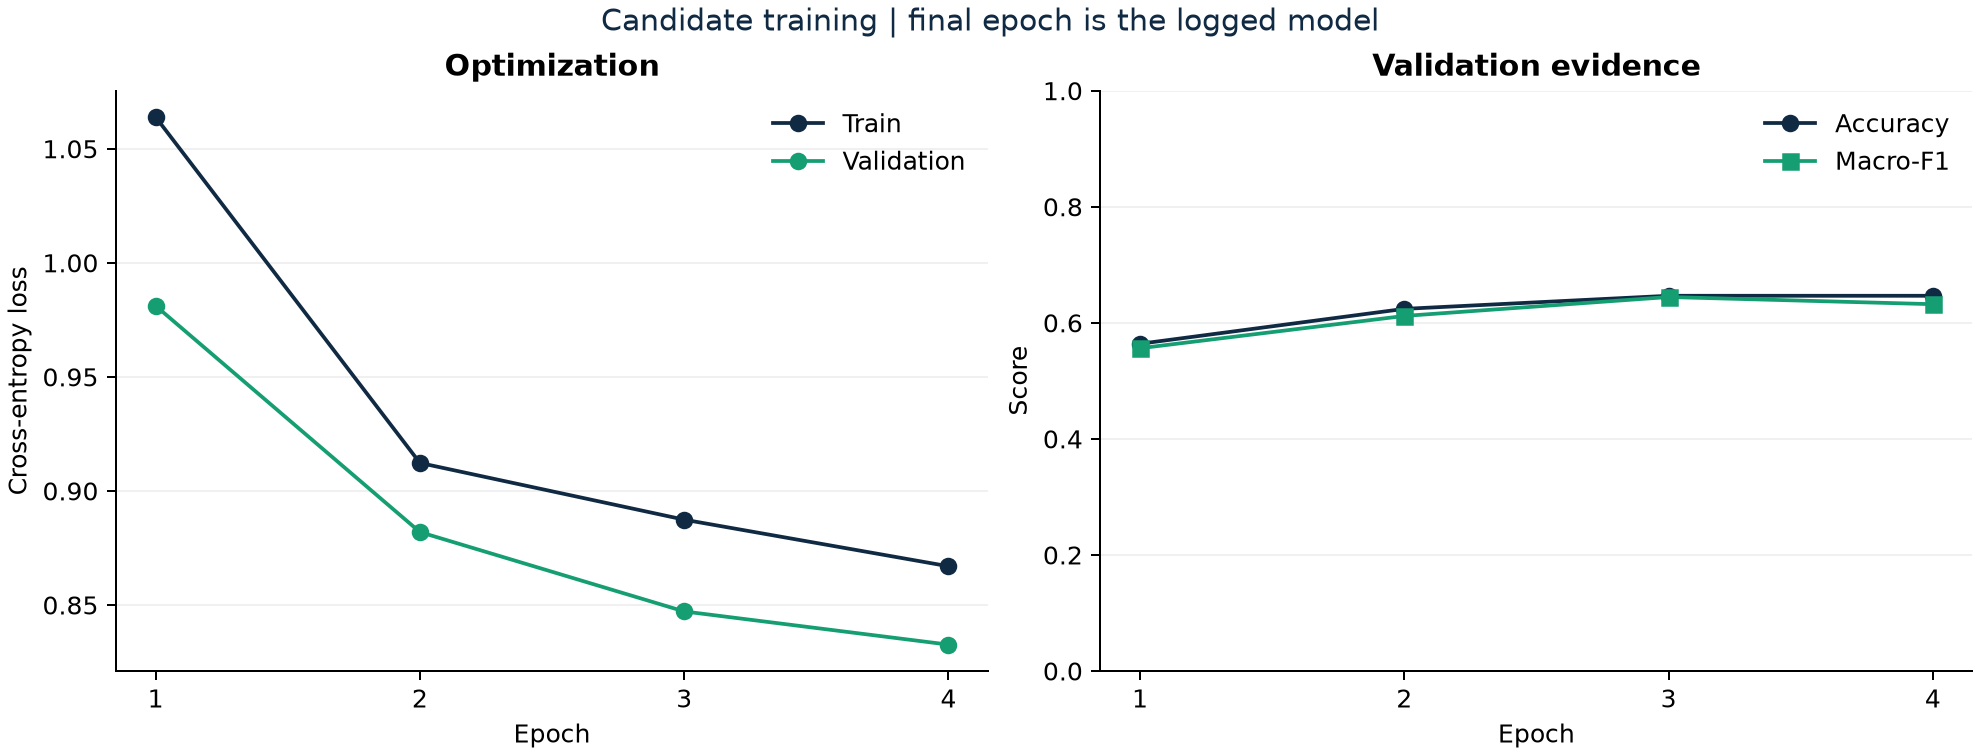
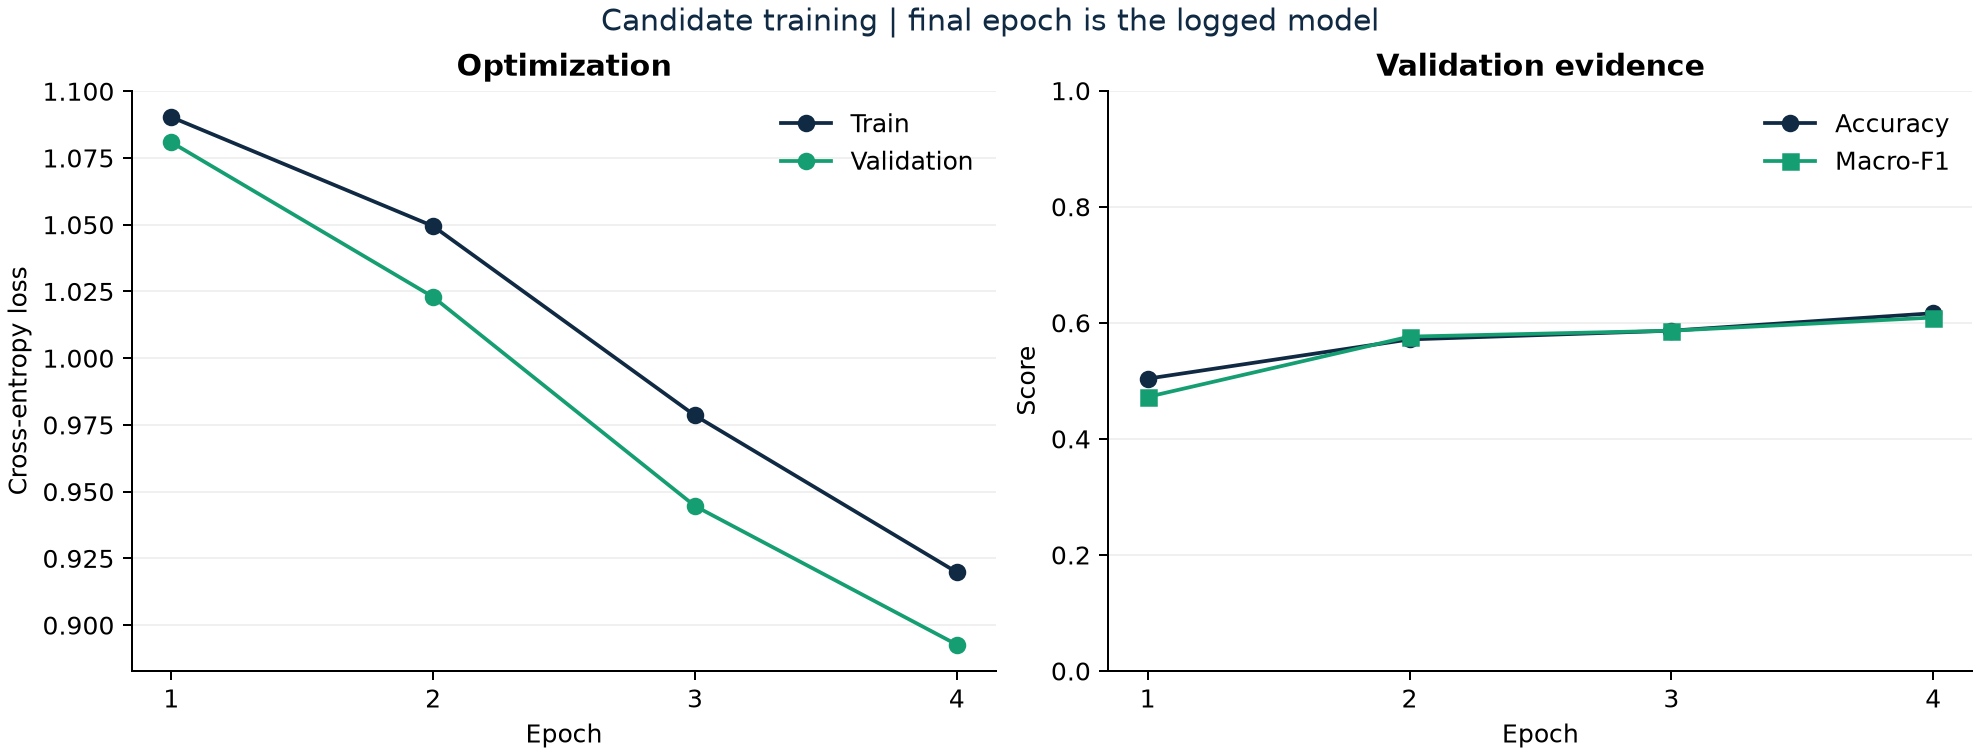
Record Run B and the recomputation checks

diff --git a/AI53_MLOps_Project_Phase1_Starter/LAB_REPORT.md b/AI53_MLOps_Project_Phase1_Starter/LAB_REPORT.md
@@ -180,6 +180,64 @@ MLflow records the Run itself, its parameters, per-epoch metrics, training time,
 - **Tie-break:** if two Runs have the same `val_macro_f1` (to 3 decimals), pick the one with the lower final `val_loss`.
 - **Expected effect of a lower learning rate (0.001 → 0.0003):** smaller weight updates, so with the same 4 epochs the loss should decrease more slowly. I expect higher final `train_loss`/`val_loss` and probably a lower `val_macro_f1` than Run A, but smoother curves.
 
+### 6.3 / 6.4 Observed results
+
+- **Run A** (baseline, `learning_rate=0.001`): `99bbda976b0c44708038998b08719f38`. Final `val_macro_f1=0.6321`, `val_loss=0.8326`.
+- **Run B** (`learning_rate=0.0003`): `9bf7b6dba4f74ddcab6100fe0cb282e5`. Final `val_macro_f1=0.6091`, `val_loss=0.8927`.
+
+| Check | VALIDATE | PREPARE | TRAIN | EVALUATE |
+|---|---|---|---|---|
+| Baseline `dvc repro train` (Run A) | RERUN | RERUN | RERUN | NOT RUN |
+| 1. Run again, nothing changed | REUSED | REUSED | REUSED | NOT RUN |
+| 2. Comment added to `src/validate_data.py` | RERUN | REUSED | REUSED | NOT RUN |
+| `train.learning_rate` = 0.0003 (Run B) | REUSED | REUSED | RERUN | NOT RUN |
+
+Baseline:
+```text
+'data/raw.dvc' didn't change, skipping
+Running stage 'validate':
+> uv run --locked python -m src.validate_data
+Generating lock file 'dvc.lock'
+Running stage 'prepare':
+> uv run --locked python -m src.prepare
+Running stage 'train':
+> uv run --locked python -m src.train
+Training complete. MLflow Run ID: 99bbda976b0c44708038998b08719f38
+```
+
+Check 1:
+```text
+'data/raw.dvc' didn't change, skipping
+Stage 'validate' didn't change, skipping
+Stage 'prepare' didn't change, skipping
+Stage 'train' didn't change, skipping
+Data and pipelines are up to date.
+```
+
+Check 2 (`reports/data_quality.json` md5 `96529065e4f57b8ad701e3a2fe49c061` before and after):
+```text
+'data/raw.dvc' didn't change, skipping
+Running stage 'validate':
+> uv run --locked python -m src.validate_data
+Updating lock file 'dvc.lock'
+Stage 'prepare' didn't change, skipping
+Stage 'train' didn't change, skipping
+```
+
+Learning-rate change:
+```text
+'data/raw.dvc' didn't change, skipping
+Stage 'validate' didn't change, skipping
+Stage 'prepare' didn't change, skipping
+Running stage 'train':
+> uv run --locked python -m src.train
+Training complete. MLflow Run ID: 9bf7b6dba4f74ddcab6100fe0cb282e5
+```
+
+**Comparison with the predictions.** The two rows I could test match the predictions. With the comment in `src/validate_data.py`, VALIDATE reran because one of its deps changed, but it rewrote an identical `reports/data_quality.json`, so PREPARE saw the same hash for that dep and was skipped, and TRAIN with it. Changing `train.learning_rate` reran only TRAIN, the only stage that lists this param. The only extra reruns are in the baseline row: there was no `dvc.lock` yet, so DVC had no stored hashes and had to run VALIDATE, PREPARE and TRAIN once. EVALUATE is NOT RUN in every row because `dvc repro train` only runs TRAIN and its upstream stages, and EVALUATE is on a separate branch.
+
+The lower learning rate behaved as expected: after 4 epochs Run B has a higher `val_loss` (0.8927 vs 0.8326) and a lower `val_macro_f1` (0.6091 vs 0.6321), and its losses were still falling steadily at the last epoch.
+
 ## Milestone 7 - Compare three controlled runs
 
 ## Milestone 8 - Select and test one model
